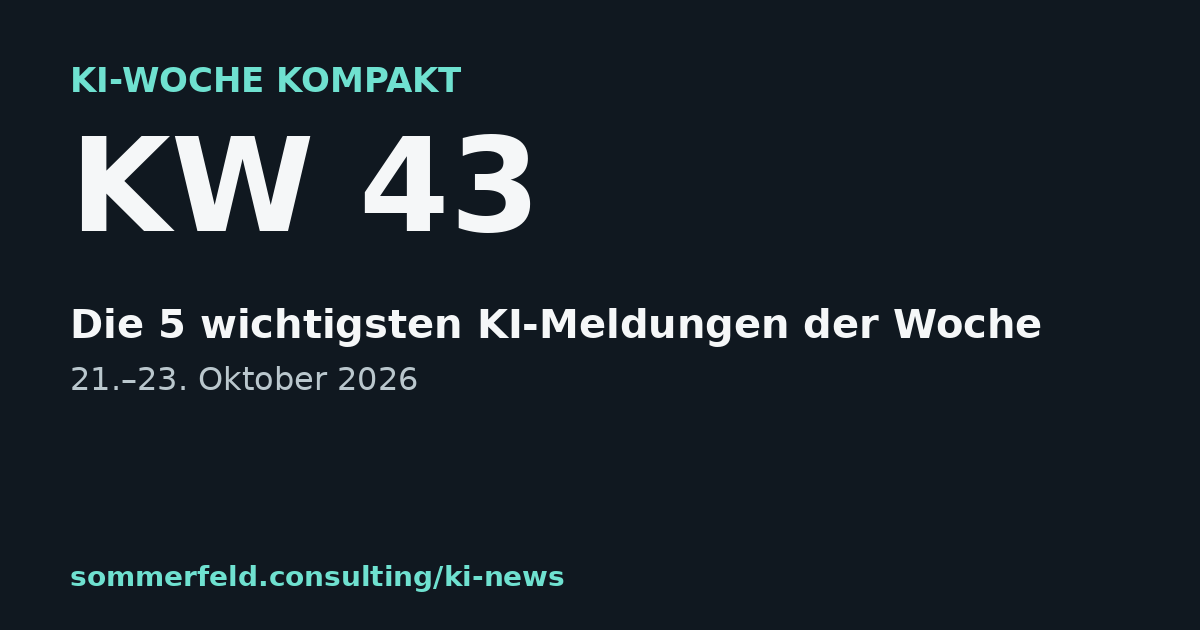
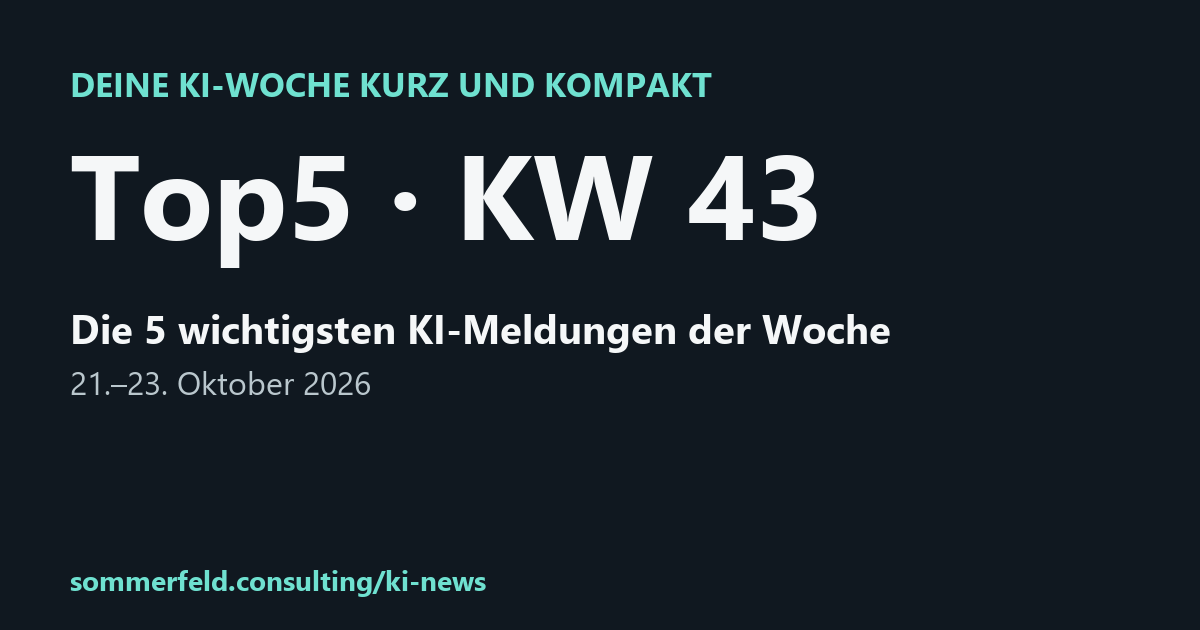
Wochenrueckblick: Bildueberschrift 'Deine KI-Woche kurz und kompakt - Top5 - KW'

diff --git a/scripts/weekly_news.py b/scripts/weekly_news.py
@@ -195,8 +195,8 @@ def render_images(directory, number, picks, span):
     W, H = 1080, 1350
     im = Image.new("RGB", (W, H), BG)
     d = ImageDraw.Draw(im)
-    d.text((70, 70), "KI-WOCHE KOMPAKT", font=_font(FONTS, 30), fill=MINT)
-    d.text((70, 118), f"KW {number}", font=_font(FONTS, 96), fill=WHITE)
+    d.text((70, 70), "DEINE KI-WOCHE KURZ UND KOMPAKT", font=_font(FONTS, 30), fill=MINT)
+    d.text((70, 118), f"Top5 · KW {number}", font=_font(FONTS, 96), fill=WHITE)
     d.text((70, 245), span, font=_font(FONTS_REGULAR, 30), fill=MUTED)
     y = 330
     head = _font(FONTS, 34)
@@ -213,8 +213,8 @@ def render_images(directory, number, picks, span):
     W2, H2 = 1200, 630
     og = Image.new("RGB", (W2, H2), BG)
     od = ImageDraw.Draw(og)
-    od.text((70, 60), "KI-WOCHE KOMPAKT", font=_font(FONTS, 34), fill=MINT)
-    od.text((70, 110), f"KW {number}", font=_font(FONTS, 130), fill=WHITE)
+    od.text((70, 60), "DEINE KI-WOCHE KURZ UND KOMPAKT", font=_font(FONTS, 34), fill=MINT)
+    od.text((70, 110), f"Top5 · KW {number}", font=_font(FONTS, 120), fill=WHITE)
     od.text((70, 300), "Die 5 wichtigsten KI-Meldungen der Woche", font=_font(FONTS, 40), fill=WHITE)
     od.text((70, 360), span, font=_font(FONTS_REGULAR, 32), fill=MUTED)
     od.text((70, H2 - 70), "sommerfeld.consulting/ki-news", font=_font(FONTS, 28), fill=MINT)
